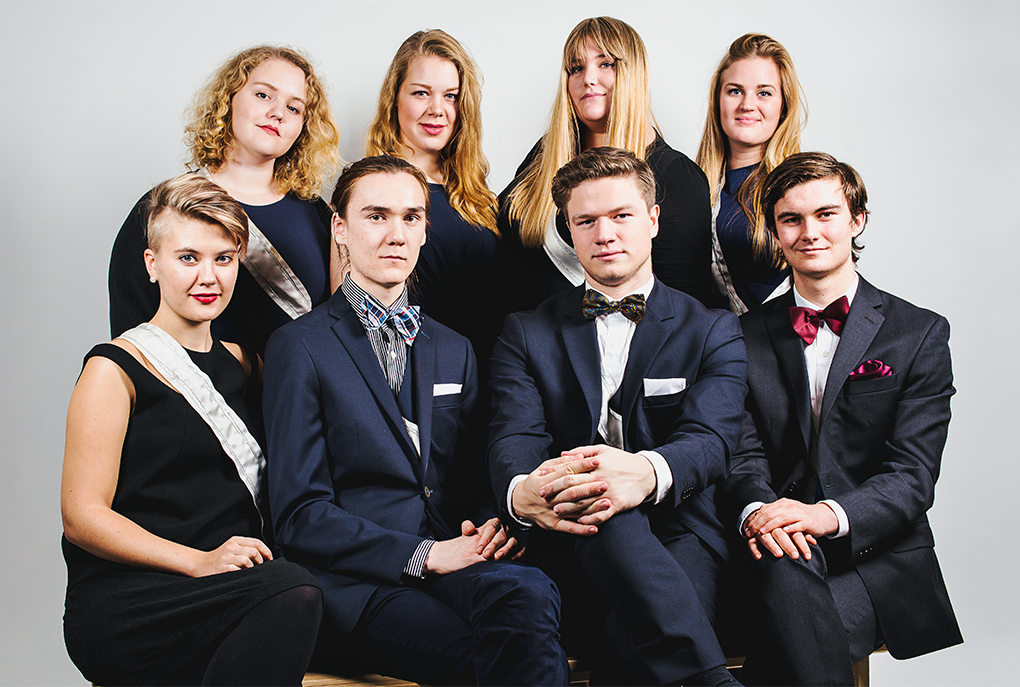
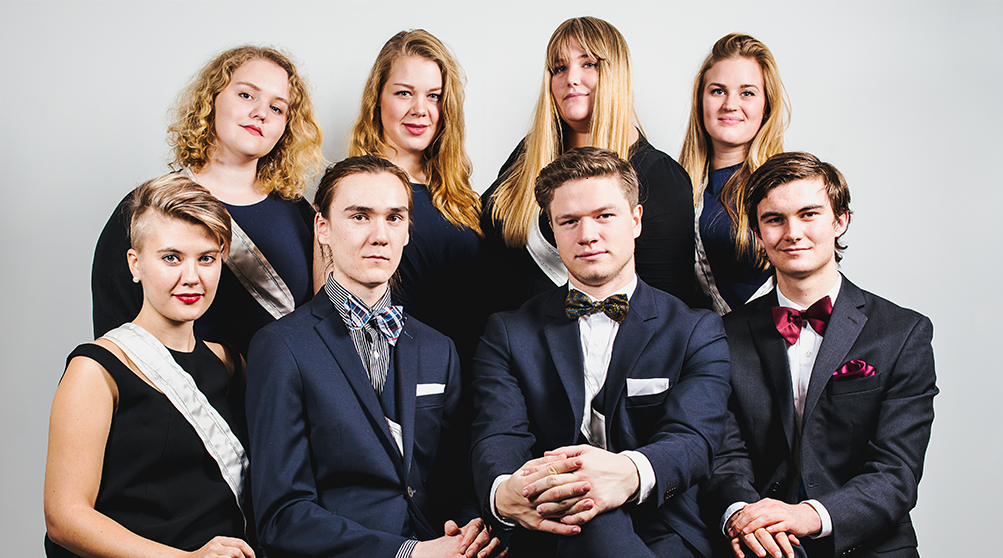
laget headeren bredere

diff --git a/css/style.css b/css/style.css
@@ -115,7 +115,7 @@ a:hover {
 /*--- SECTION HEADER ---*/
 .sectionHeader {
 	width: 100%;
-	height: 400px;
+	height: auto;
 	background: #eee;
 	position: relative;
 	margin-bottom: 100px;
@@ -124,7 +124,7 @@ a:hover {
 .sectionHeader img {
 	display: block;
     height: 100%;
-    width: auto;
+    width: 100%;
 	margin: auto;
     overflow: hidden;
 }
